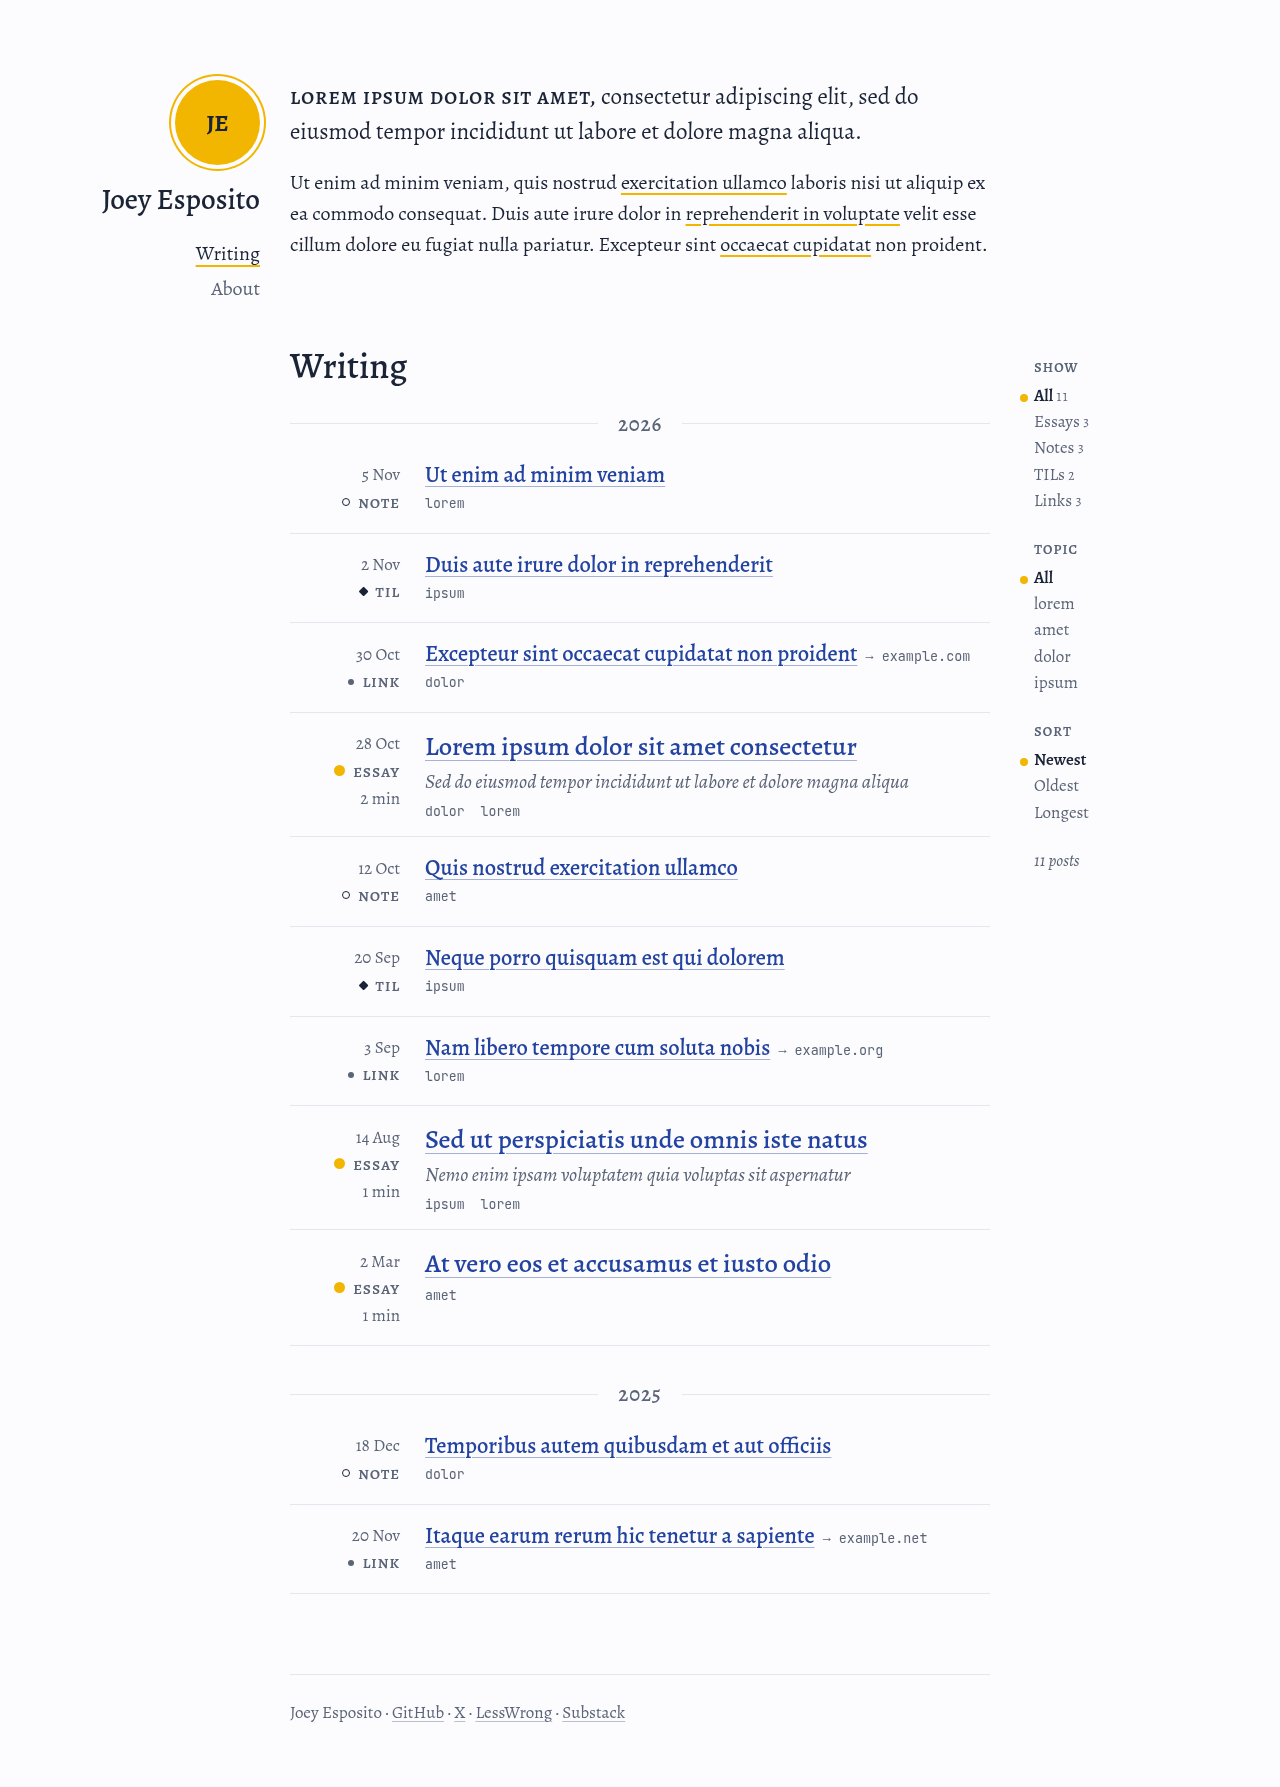
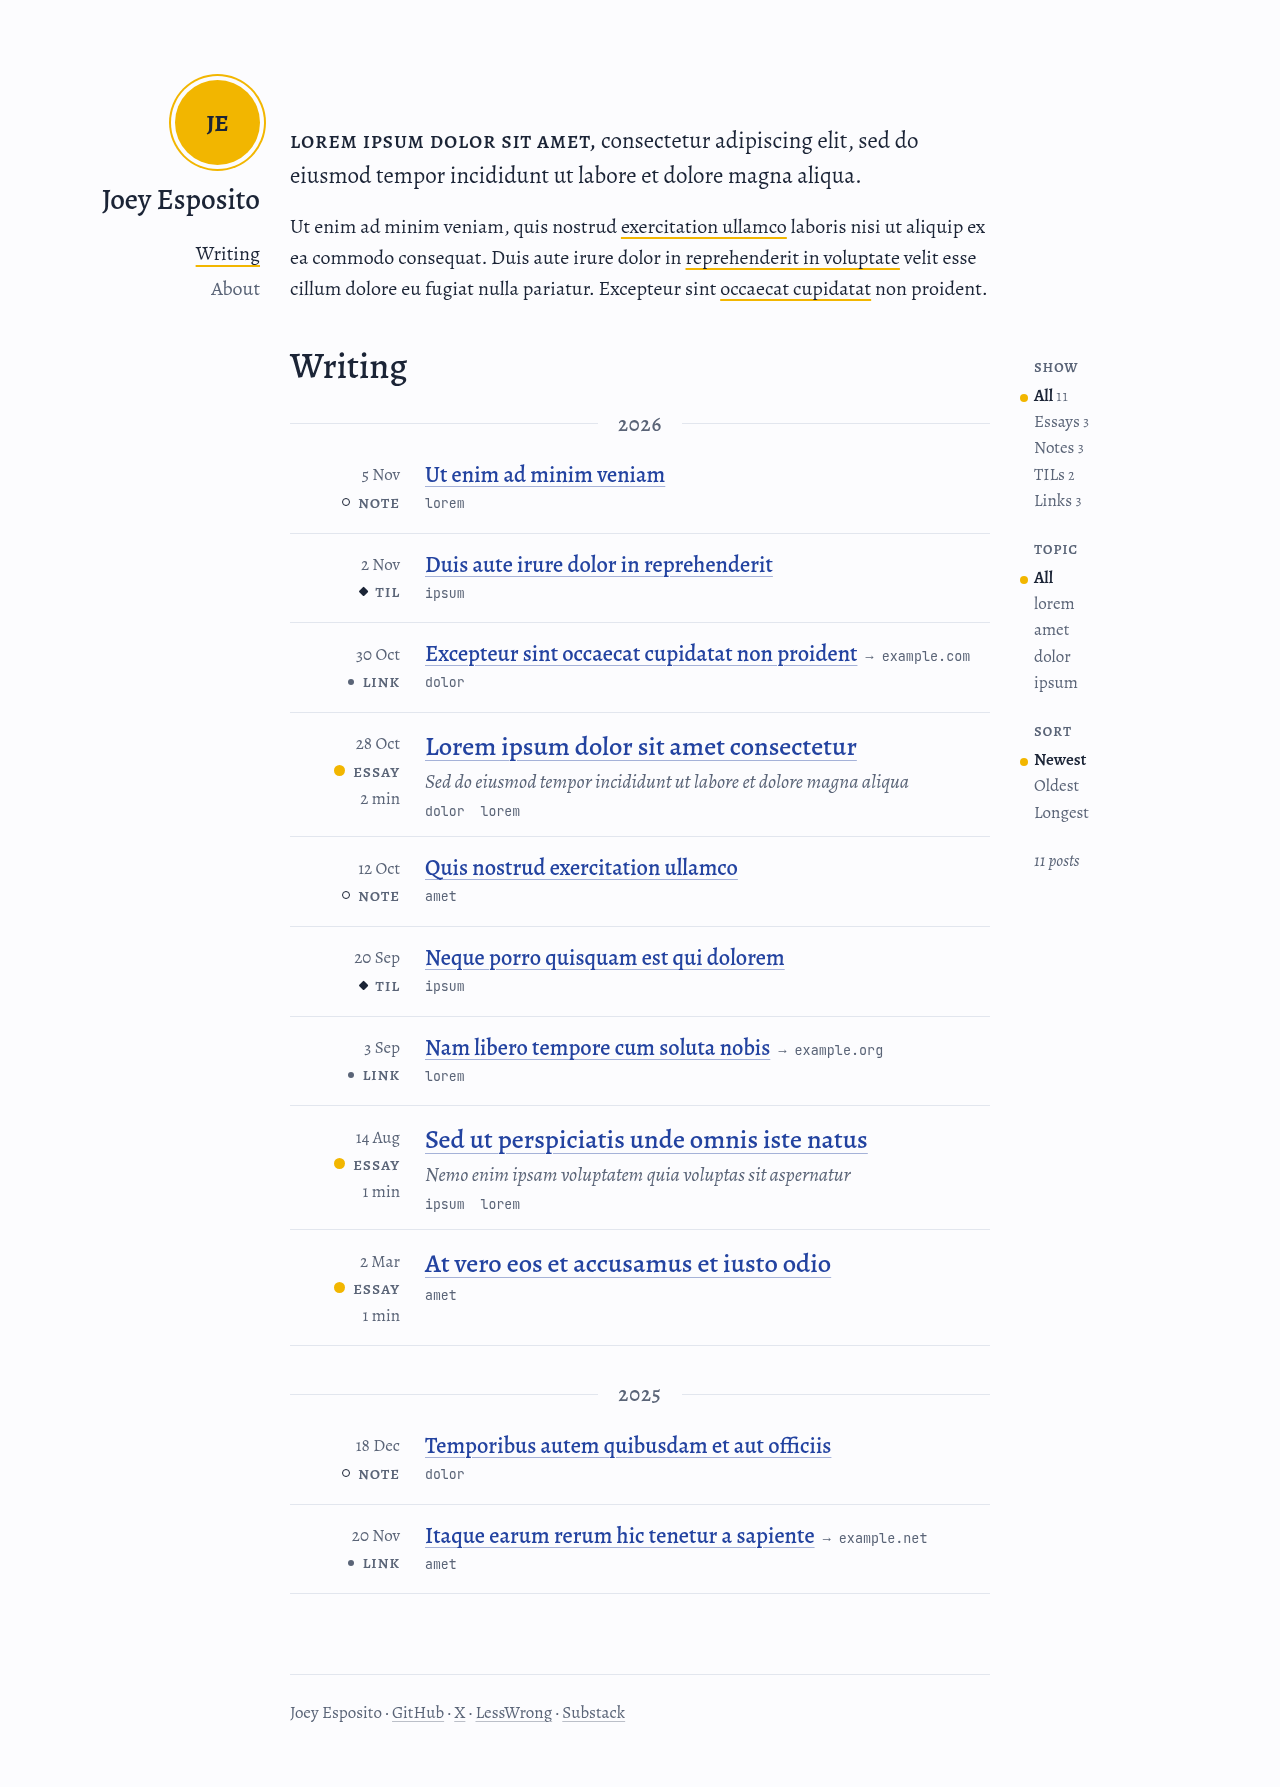
Align the home page's intro and margin header at the bottom

Changed region(s): [[0.2188, 0.0308, 0.7812, 0.1847]]

diff --git a/src/styles/global.css b/src/styles/global.css
@@ -106,15 +106,16 @@ sup { line-height: 0; }
   .with-rail > .rail { grid-column: 2; grid-row: 1 / span 3; align-self: start; position: sticky; top: 2rem; max-height: calc(100vh - 4rem); overflow-y: auto; }
   .site-footer { grid-column: 3; grid-row: 2; max-width: none; margin-inline: 0; padding-inline: 0; }
 
-  /* Home: the intro and the margin's name and pages form one band, and the writing list
-     starts below the taller of the two. The page shares the body's rows (subgrid) so the
-     band row fits both; the header holds that row only, so here it scrolls away. */
+  /* Home: the intro and the margin's name and pages form one band, bottom-aligned, and the
+     writing list starts below it. The page shares the body's rows (subgrid) so the band row
+     fits both; the header holds that row only, so here it scrolls away. The intro's bottom
+     margin matches the header's bottom padding so their last lines end level. */
   body:has(.home) { grid-template-rows: auto 1fr auto; }
-  body:has(.home) .site-header { grid-row: 1; position: static; }
+  body:has(.home) .site-header { grid-row: 1; align-self: end; position: static; }
   body:has(.home) .page { grid-row: 1 / 3; display: grid; grid-template-rows: subgrid; }
   body:has(.home) .site-footer { grid-row: 3; }
   .home { display: contents; }
-  .home > .intro { grid-row: 1; max-width: var(--measure); }
+  .home > .intro { grid-row: 1; align-self: end; max-width: var(--measure); margin-bottom: 2rem; }
   .home > .writing { grid-row: 2; align-self: start; }
   /* With the controls out in the rail, the first year divider sits right under the heading. */
   .writing .post-list > .year:first-child { margin-top: 0.4rem; }

diff --git a/DESIGN.md b/DESIGN.md
@@ -66,7 +66,8 @@ Meta 0.85–0.92rem. Inline code 0.8em; code blocks 0.72rem (14.4px).
   nav. Pages that need it put a sticky panel in the right rail (`.with-rail`
   and `.rail`): the writing list's controls, an essay's contents.
 - Home page, from 80rem: the intro and the margin's avatar, name and nav form
-  one top band, and "Writing" with its controls starts below the taller of the two. The
+  one top band, aligned at the bottom so the intro's last line and the last nav item share a
+  baseline, and "Writing" with its controls starts below the band. The
   header holds only that band here, so it scrolls away with it; the controls stay sticky.
   The first year divider sits 0.4rem under the "Writing" heading.
 
@@ -128,6 +129,8 @@ Client JavaScript: the filter script on `/`. Nothing else.
 8. Joey dropped the theme button: the site follows the reader's system setting.
 9. Joey dropped the archive page: the home list already shows every post by year, with
    filters. The nav is Writing and About.
+10. Joey asked for the home band's two sides to sit flush at the bottom: the intro and the
+    margin's name and nav now align to the band's bottom edge instead of its top.
 
 ## Notes
 
